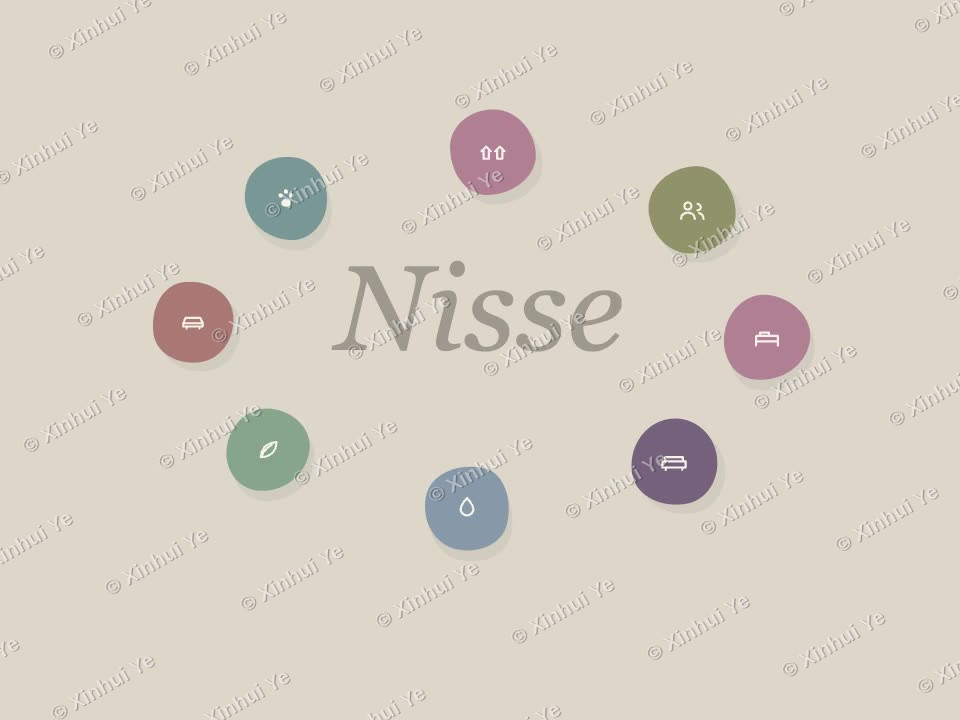
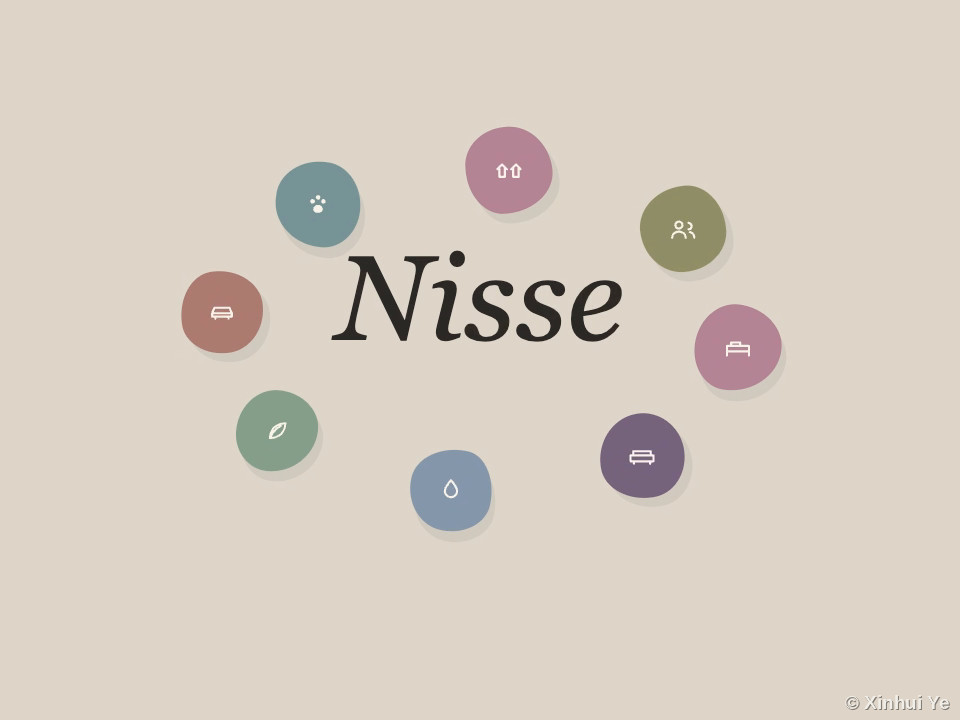
Nisse page: rename, corner-only watermarks, list-lens board, full-width film
- Rename the case study to "UI/UX Design: For the Chores Nobody Sees"
  (page title, h1, and the card titles on Highlights and the About
  carousel); refresh the meta description to the new positioning.
- Re-watermark every Nisse image with the site's single bottom-right
  corner badge instead of the tiled diagonal marks: wireframe boards
  rebuilt from the pristine uploads in git history, card image rebuilt
  from a clean title frame of the promo footage, poster rebuilt from the
  newly uploaded frame (2x upscale). Raw upload files removed after
  processing into their clean lowercase names.
- Add the new 1c "Home — list lens" wireframe board (nisse-wireframe-5)
  under the space-lens board, with a .nisse-board--half width cap.
- Highlights overview card: new tag line ("App design, Claude Code,
  built with a front end engineer") and the new intro copy.
- The promo film now spans the full container width with the pitch
  below it; still autoplays muted (silent) on page enter. The video
  element points at assets/nisse-promo.mp4 — the replacement video
  didn't make it into the repo and needs to be uploaded under that name.

Claude-Session: https://claude.ai/code/session_01SGv4FJ6NprcvLJtJUz8rzk

diff --git a/highlight-nisse.html b/highlight-nisse.html
@@ -3,8 +3,8 @@
 <head>
   <meta charset="UTF-8" />
   <meta name="viewport" content="width=device-width, initial-scale=1.0" />
-  <title>Xinhui Ye — Nisse, Designed with AI</title>
-  <meta name="description" content="Nisse — a calm home-management app for couples, designed end to end in an AI-native loop with Claude, Claude Code and VS Code." />
+  <title>Xinhui Ye — UI/UX Design: For the Chores Nobody Sees</title>
+  <meta name="description" content="Nisse — a calm home-management app for couples that makes invisible work visible, designed with Claude and Claude Code and built with a front-end engineer." />
   <link rel="preconnect" href="https://fonts.googleapis.com" />
   <link rel="preconnect" href="https://fonts.gstatic.com" crossorigin />
   <link href="https://fonts.googleapis.com/css2?family=Archivo:wght@400;500;600;700;800;900&family=Spectral:wght@400;500;600;700&display=swap" rel="stylesheet" />
@@ -50,30 +50,28 @@
   <main>
     <section class="band defense-playful nisse-page" style="padding-top: var(--space-lg);">
       <div class="container">
-        <h1 class="headline-lg" style="margin-bottom: var(--space-lg);">Nisse, Designed with AI</h1>
+        <h1 class="headline-lg" style="margin-bottom: var(--space-lg);">UI/UX Design: For the Chores Nobody Sees</h1>
 
         <div class="detail-blocks">
 
-          <!-- ===== Intro: the film leads, the pitch beside it ===== -->
-          <div class="photo-block photo-block--plain photo-block--wide" style="align-items: start;">
-            <div class="media media--film">
-              <video class="film" autoplay muted loop playsinline controls controlsList="nodownload noplaybackrate noremoteplayback" disablePictureInPicture disableRemotePlayback preload="metadata" poster="assets/nisse-poster.jpg" oncontextmenu="return false">
-                <source src="assets/nisse-promo.mp4" type="video/mp4" />
-                Your browser can&rsquo;t play this video.
-              </video>
-            </div>
-            <div class="block-copy" style="align-self: stretch; display: flex; flex-direction: column;">
-              <p class="title-serif">A calm home for invisible work</p>
-              <p class="block-desc">Nisse is a home-management app for couples who share a household &mdash; named after the Scandinavian house spirit that quietly keeps a home in order. Most task apps help one person manage a home. Nisse helps two people <em>share</em> one, including the part nobody sees: noticing, planning, and remembering.</p>
-              <p class="block-desc">It is also a proof of a new way of working. After years of researching how designers collaborate, I designed this end to end in an AI-native loop &mdash; Claude as a thinking partner, Claude Code inside VS Code turning the design system into the working app the film shows. What people call vibe coding, held to a designer&rsquo;s standard.</p>
-              <div class="tag-row" style="margin-top: auto; padding-top: var(--space-md);">
-                <span class="tag">Product strategy</span>
-                <span class="tag">UX</span>
-                <span class="tag">Visual system</span>
-                <span class="tag">VS Code</span>
-                <span class="tag">Claude Code</span>
-                <span class="tag">Claude</span>
-              </div>
+          <!-- ===== Intro: the film leads, full width; the pitch below it ===== -->
+          <div class="media media--film">
+            <video class="film" autoplay muted loop playsinline controls controlsList="nodownload noplaybackrate noremoteplayback" disablePictureInPicture disableRemotePlayback preload="metadata" poster="assets/nisse-poster.jpg" oncontextmenu="return false">
+              <source src="assets/nisse-promo.mp4" type="video/mp4" />
+              Your browser can&rsquo;t play this video.
+            </video>
+          </div>
+          <div class="block-copy detail-prose">
+            <p class="title-serif">A calm home for invisible work</p>
+            <p class="block-desc">Nisse is a home-management app for couples who share a household &mdash; named after the Scandinavian house spirit that quietly keeps a home in order. Most task apps help one person manage a home. Nisse helps two people <em>share</em> one, including the part nobody sees: noticing, planning, and remembering.</p>
+            <p class="block-desc">It is also a proof of a new way of working. After years of researching how designers collaborate, I designed this end to end in an AI-native loop &mdash; Claude as a thinking partner, Claude Code inside VS Code turning the design system into the working app the film shows. What people call vibe coding, held to a designer&rsquo;s standard.</p>
+            <div class="tag-row" style="padding-top: var(--space-md);">
+              <span class="tag">Product strategy</span>
+              <span class="tag">UX</span>
+              <span class="tag">Visual system</span>
+              <span class="tag">VS Code</span>
+              <span class="tag">Claude Code</span>
+              <span class="tag">Claude</span>
             </div>
           </div>
 
@@ -277,6 +275,12 @@
             <figure class="detail-figure nisse-board">
               <img src="assets/nisse-wireframe-2.png" alt="Wireframe board of the home space lens: the blob map with household pulse, plus the hidden edit modes — spacing sliders, color themes, managing and adding blobs" loading="lazy" />
               <figcaption class="caption">The space lens &mdash; the blob map is the default view; editing hides behind a long-press so the resting state stays quiet.</figcaption>
+            </figure>
+
+            <!-- The list lens board (1c) -->
+            <figure class="detail-figure nisse-board nisse-board--half">
+              <img src="assets/nisse-wireframe-5.png" alt="Wireframe board of the home list lens: the same shared pool as grouped cards — needs-you digest, takk feed and blob cards in groups, with an arrange mode hidden behind a long-press" loading="lazy" />
+              <figcaption class="caption">The list lens &mdash; the same data as the map, as grouped cards; re-grouping and reordering hide behind a long-press, just like the map&rsquo;s edit modes.</figcaption>
             </figure>
           </div>
 

diff --git a/highlights.html b/highlights.html
@@ -63,9 +63,9 @@
         <article class="hl-item">
           <div class="media"><img src="assets/nisse-card.jpg" alt="Nisse — the app's zone blobs circling the wordmark" style="width:100%; aspect-ratio: 4 / 3; object-fit: cover; display:block;" /></div>
           <div>
-            <h2 class="headline-lg">Nisse, Designed with AI</h2>
-            <p class="meta">App design, end to end · VS Code, Claude Code &amp; Claude</p>
-            <p class="body-lg">My newest side project is Nisse, a calm home-management app for couples that makes invisible labor visible without turning it into a scoreboard. I designed it end to end &mdash; strategy, UX, visual system, working prototype &mdash; in an AI-native loop: thinking with Claude, building with Claude Code inside VS Code. Years of research taught me judgment; vibe coding turned that judgment into a living product at a speed I used to only wish for.</p>
+            <h2 class="headline-lg">UI/UX Design: For the Chores Nobody Sees</h2>
+            <p class="meta">App design, Claude Code, built with a front end engineer</p>
+            <p class="body-lg">Nisse is named after the Scandinavian house spirit that quietly keeps a home in order. That angle is the whole project: a home management app for couples that makes invisible work visible without turning it into a scoreboard. I found the idea, did the research, and set the aesthetic. A front end engineer and I are making it real, and it is still very much in progress. AI is what keeps me close to the thing. I get to stay in the material instead of imagining it. I can build a direction the same evening I think of it and judge it on a real screen.</p>
             <p class="utility-row"><a class="btn btn--primary btn--mint-hover" href="highlight-nisse.html">Read more</a></p>
           </div>
         </article>

diff --git a/index.html b/index.html
@@ -109,10 +109,10 @@
         <div data-carousel data-carousel-page>
           <div class="h-carousel" data-carousel-track>
             <article class="h-card">
-              <div class="media"><img src="assets/nisse-card.jpg" alt="Nisse, Designed with AI" style="width:100%; aspect-ratio: 4 / 3; object-fit: cover; display:block;" /></div>
+              <div class="media"><img src="assets/nisse-card.jpg" alt="Nisse — the app's zone blobs circling the wordmark" style="width:100%; aspect-ratio: 4 / 3; object-fit: cover; display:block;" /></div>
               <div class="stack-sm">
-                <h3 class="title-serif">Nisse, Designed with AI</h3>
-                <p class="meta">App design · vibe-coded with Claude</p>
+                <h3 class="title-serif">UI/UX Design: For the Chores Nobody Sees</h3>
+                <p class="meta">App design · built with Claude Code</p>
                 <a class="btn btn--primary btn--mint-hover btn--sm" href="highlight-nisse.html">Read</a>
               </div>
             </article>

diff --git a/assets/styles.css b/assets/styles.css
@@ -3609,6 +3609,7 @@ a.t-org:hover { color: var(--on-surface); }
 .nisse-board img { border-radius: 0; }
 .nisse-board .caption { margin-top: var(--space-sm); }
 .nisse-board--narrow { max-width: 300px; }
+.nisse-board--half { max-width: 720px; margin-inline: auto; }
 
 /* IA map — one card per surface, nodes as quiet rows */
 .nisse-ia {
